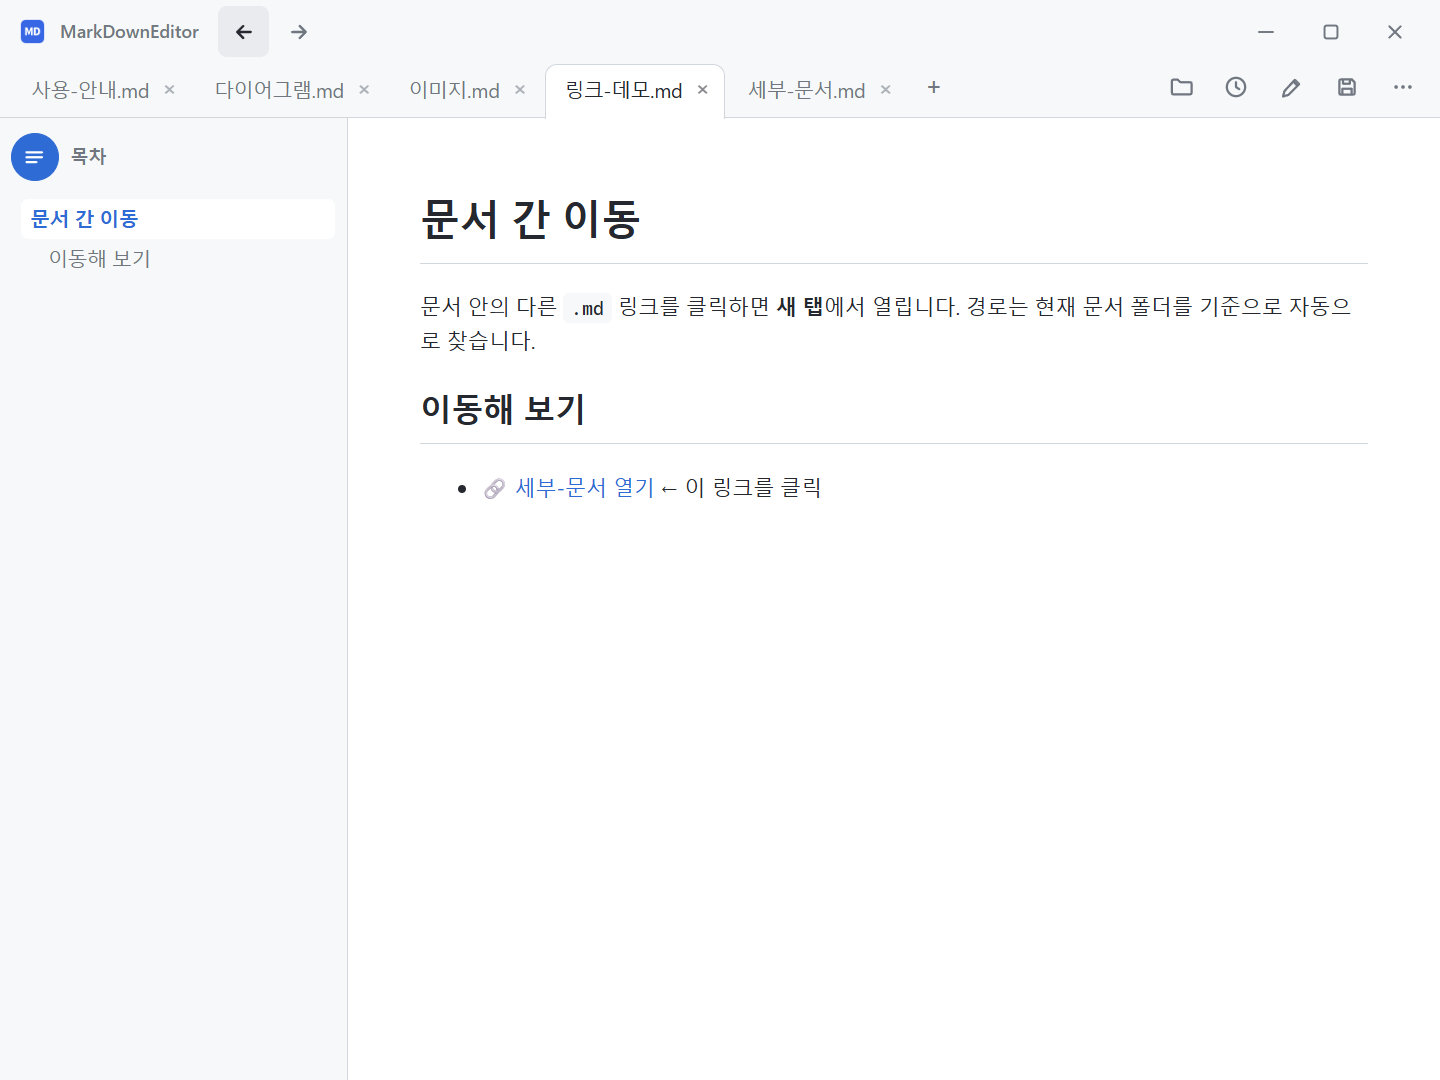
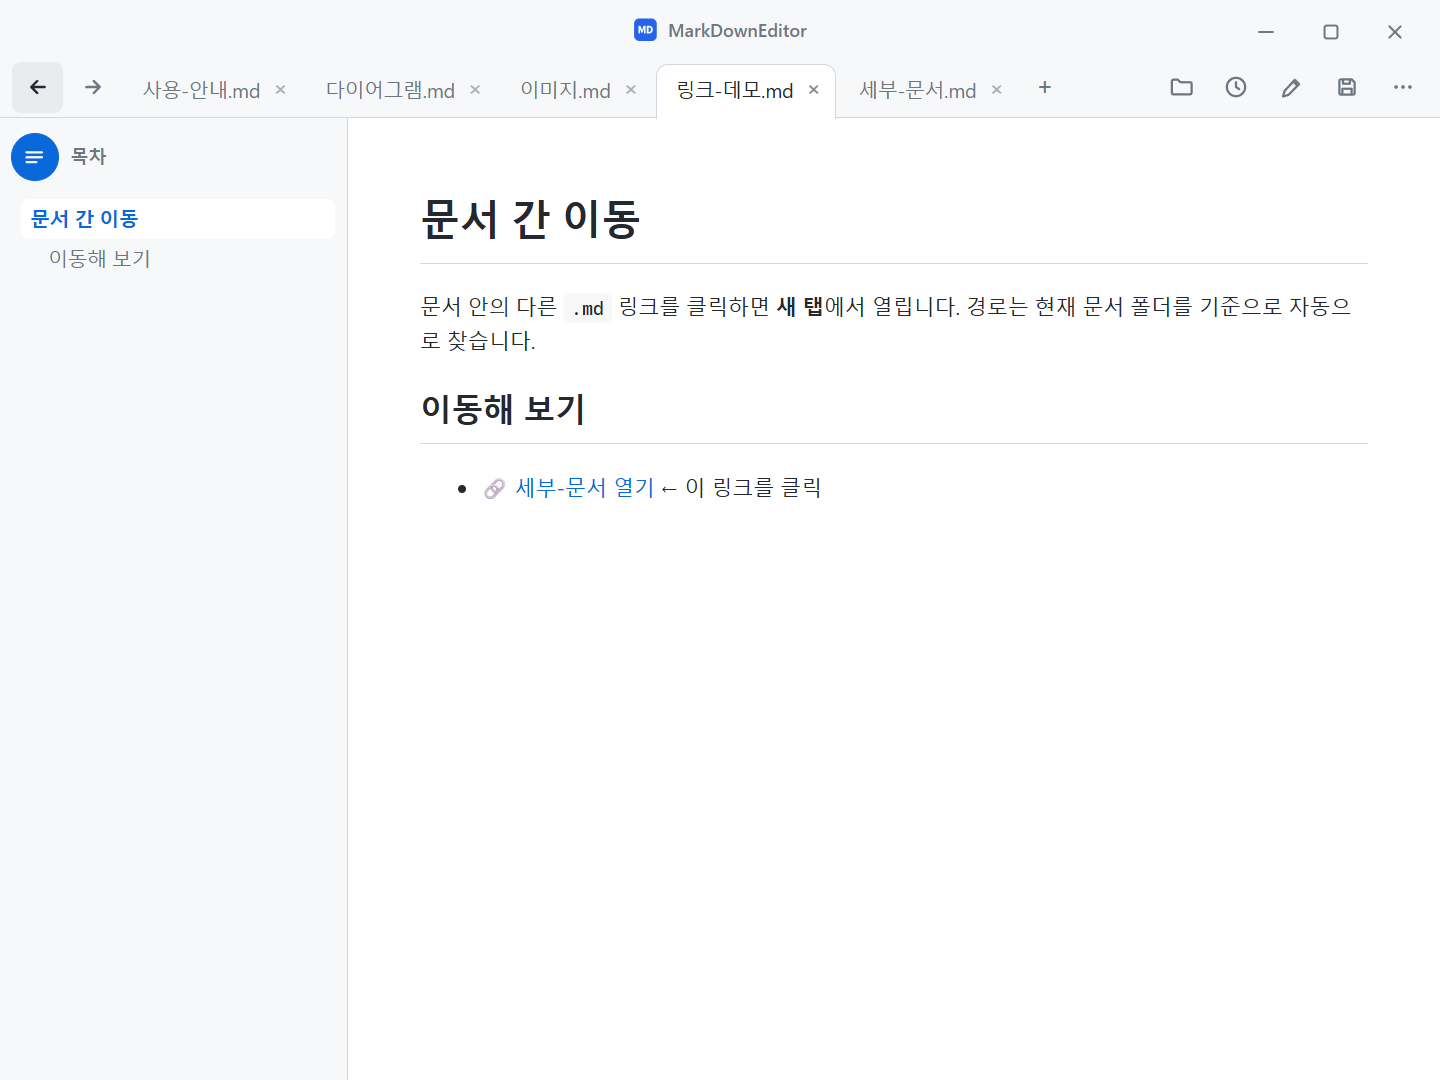
타이틀바 다듬기: 중앙 [아이콘+타이틀] + 내비게이션을 탭 줄로 + 언어 코드 표기
- 타이틀바: [MD 아이콘 + MarkDownEditor]를 정중앙 고정 (클릭 통과로 드래그 유지)
  - 좌측 고아 아이콘 제거 — 타이틀바는 [드래그 영역 · 중앙 브랜드 · 창 버튼]으로 정리
- 뒤로/앞으로 버튼을 탭 줄 왼쪽으로 이동 (브라우저식 — 문서 탭 옆이 자연스러움)
- ⋯ 메뉴 언어 항목: 현재 언어를 코드로 표시 ("언어 — KO", 지역 포함 ZH-CN 등)
- README 스크린샷 9장을 최종 레이아웃으로 재촬영

diff --git a/src/web/index.html b/src/web/index.html
@@ -10,23 +10,11 @@
   <title>Markdown</title>
 </head>
 <body>
-  <!-- 타이틀바: 앱 아이콘 + 내비게이션 + (드래그 영역) + 창 제어 -->
+  <!-- 타이틀바: 중앙의 [아이콘+타이틀] + (드래그 영역) + 창 제어 -->
   <header id="bar">
-    <img id="appIcon" src="appicon.png" alt="" draggable="false" />
-    <span id="appTitle">MarkDownEditor</span>
-    <button id="backBtn" title="뒤로 (Alt+←)" disabled>
-      <svg width="16" height="16" viewBox="0 0 16 16" fill="none" aria-hidden="true">
-        <path d="M12.5 8H3.5M7.5 4 3.5 8l4 4" stroke="currentColor" stroke-width="1.6"
-              stroke-linecap="round" stroke-linejoin="round"/>
-      </svg>
-    </button>
-    <button id="fwdBtn" title="앞으로 (Alt+→)" disabled>
-      <svg width="16" height="16" viewBox="0 0 16 16" fill="none" aria-hidden="true">
-        <path d="M3.5 8h9M8.5 4l4 4-4 4" stroke="currentColor" stroke-width="1.6"
-              stroke-linecap="round" stroke-linejoin="round"/>
-      </svg>
-    </button>
-    <!-- 가운데 빈 공간 = 창 드래그 영역 (문서 버튼은 탭 줄 우측으로 분산) -->
+    <!-- 정중앙 고정 (pointer-events 없음 → 위에서도 창 드래그 가능) -->
+    <span id="appTitle"><img id="appIcon" src="appicon.png" alt="" draggable="false" />MarkDownEditor</span>
+    <!-- 좌우 빈 공간 전체가 창 드래그 영역 -->
     <div class="spacer"></div>
 
     <!-- 창 제어 (커스텀 타이틀바) — C#이 네이티브로 처리 -->
@@ -51,8 +39,20 @@
     </button>
   </header>
 
-  <!-- 탭 줄: 좌측 문서 탭(JS가 생성) + 우측 문서 액션 버튼 -->
+  <!-- 탭 줄: 내비게이션 + 문서 탭(JS가 생성) + 우측 문서 액션 버튼 -->
   <div id="tabrow">
+    <button id="backBtn" title="뒤로 (Alt+←)" disabled>
+      <svg width="16" height="16" viewBox="0 0 16 16" fill="none" aria-hidden="true">
+        <path d="M12.5 8H3.5M7.5 4 3.5 8l4 4" stroke="currentColor" stroke-width="1.6"
+              stroke-linecap="round" stroke-linejoin="round"/>
+      </svg>
+    </button>
+    <button id="fwdBtn" title="앞으로 (Alt+→)" disabled>
+      <svg width="16" height="16" viewBox="0 0 16 16" fill="none" aria-hidden="true">
+        <path d="M3.5 8h9M8.5 4l4 4-4 4" stroke="currentColor" stroke-width="1.6"
+              stroke-linecap="round" stroke-linejoin="round"/>
+      </svg>
+    </button>
     <nav id="tabs"></nav>
     <div class="spacer"></div>
     <button id="openBtn" title="열기 (Ctrl+O)">

diff --git a/src/web/style.css b/src/web/style.css
@@ -89,8 +89,9 @@ body {
 }
 
 /* 상단 바 */
-/* 타이틀바(앱 아이콘·내비·창 버튼)와 탭 줄이 같은 배경으로 한 덩어리를 이룸 */
+/* 타이틀바(앱 아이콘·중앙 타이틀·창 버튼)와 탭 줄이 같은 배경으로 한 덩어리를 이룸 */
 #bar {
+  position: relative;
   display: flex;
   align-items: center;
   gap: 3px;
@@ -99,8 +100,21 @@ body {
   user-select: none;
   flex: 0 0 auto;
 }
-#appIcon { width: 17px; height: 17px; margin: 0 0 0 3px; -webkit-user-drag: none; }
-#appTitle { font-size: 12px; font-weight: 600; color: var(--muted); margin: 0 10px 0 7px; }
+/* 정중앙 고정 [아이콘+타이틀] — 클릭이 통과되어 그 위에서도 창 드래그가 됨 */
+#appTitle {
+  position: absolute;
+  left: 50%;
+  top: 50%;
+  transform: translate(-50%, -46%);
+  display: inline-flex;
+  align-items: center;
+  gap: 7px;
+  font-size: 12px;
+  font-weight: 600;
+  color: var(--muted);
+  pointer-events: none;
+}
+#appIcon { width: 16px; height: 16px; -webkit-user-drag: none; }
 
 /* 탭 줄: 좌측 탭 + 우측 문서 액션 버튼.
    활성 탭이 경계선을 덮고 본문과 이어지도록 탭은 줄 바닥까지 내려간다 (메모장/브라우저식) */
@@ -137,7 +151,7 @@ body {
 #bar button:active, #tabrow > button:active { background: var(--btn-press); }
 /* 활성 상태(편집 모드 등): 은은한 배경 + 아이콘만 파란 틴트 */
 #tabrow > button.active { background: var(--btn-press); color: var(--accent); }
-#bar button:disabled { opacity: .35; cursor: default; background: transparent; }
+#bar button:disabled, #tabrow > button:disabled { opacity: .35; cursor: default; background: transparent; }
 
 /* 편집↔미리보기 토글: 현재 상태에 맞는 아이콘 하나만 표시 */
 #toggleBtn .ic-preview { display: none; }

diff --git a/src/web/app.js b/src/web/app.js
@@ -1038,8 +1038,8 @@ function showMoreMenu() {
       label: currentTheme() === 'dark' ? L.menuThemeLight : L.menuThemeDark,
       act: () => applyTheme(currentTheme() === 'dark' ? 'light' : 'dark'),
     },
-    // 화살표 대신 현재 언어를 함께 표시 — 클릭하면 언어 목록으로 전환
-    { label: `${L.menuLang} — ${LANG_NAMES[langCurrent] || 'English'}`, act: showLangMenu },
+    // 현재 언어를 코드(대문자)로 함께 표시 — 클릭하면 언어 목록으로 전환
+    { label: `${L.menuLang} — ${langCurrent.toUpperCase()}`, act: showLangMenu },
     'sep',
     {
       label: `MarkDownEditor v${appVersion || '?'}`,
